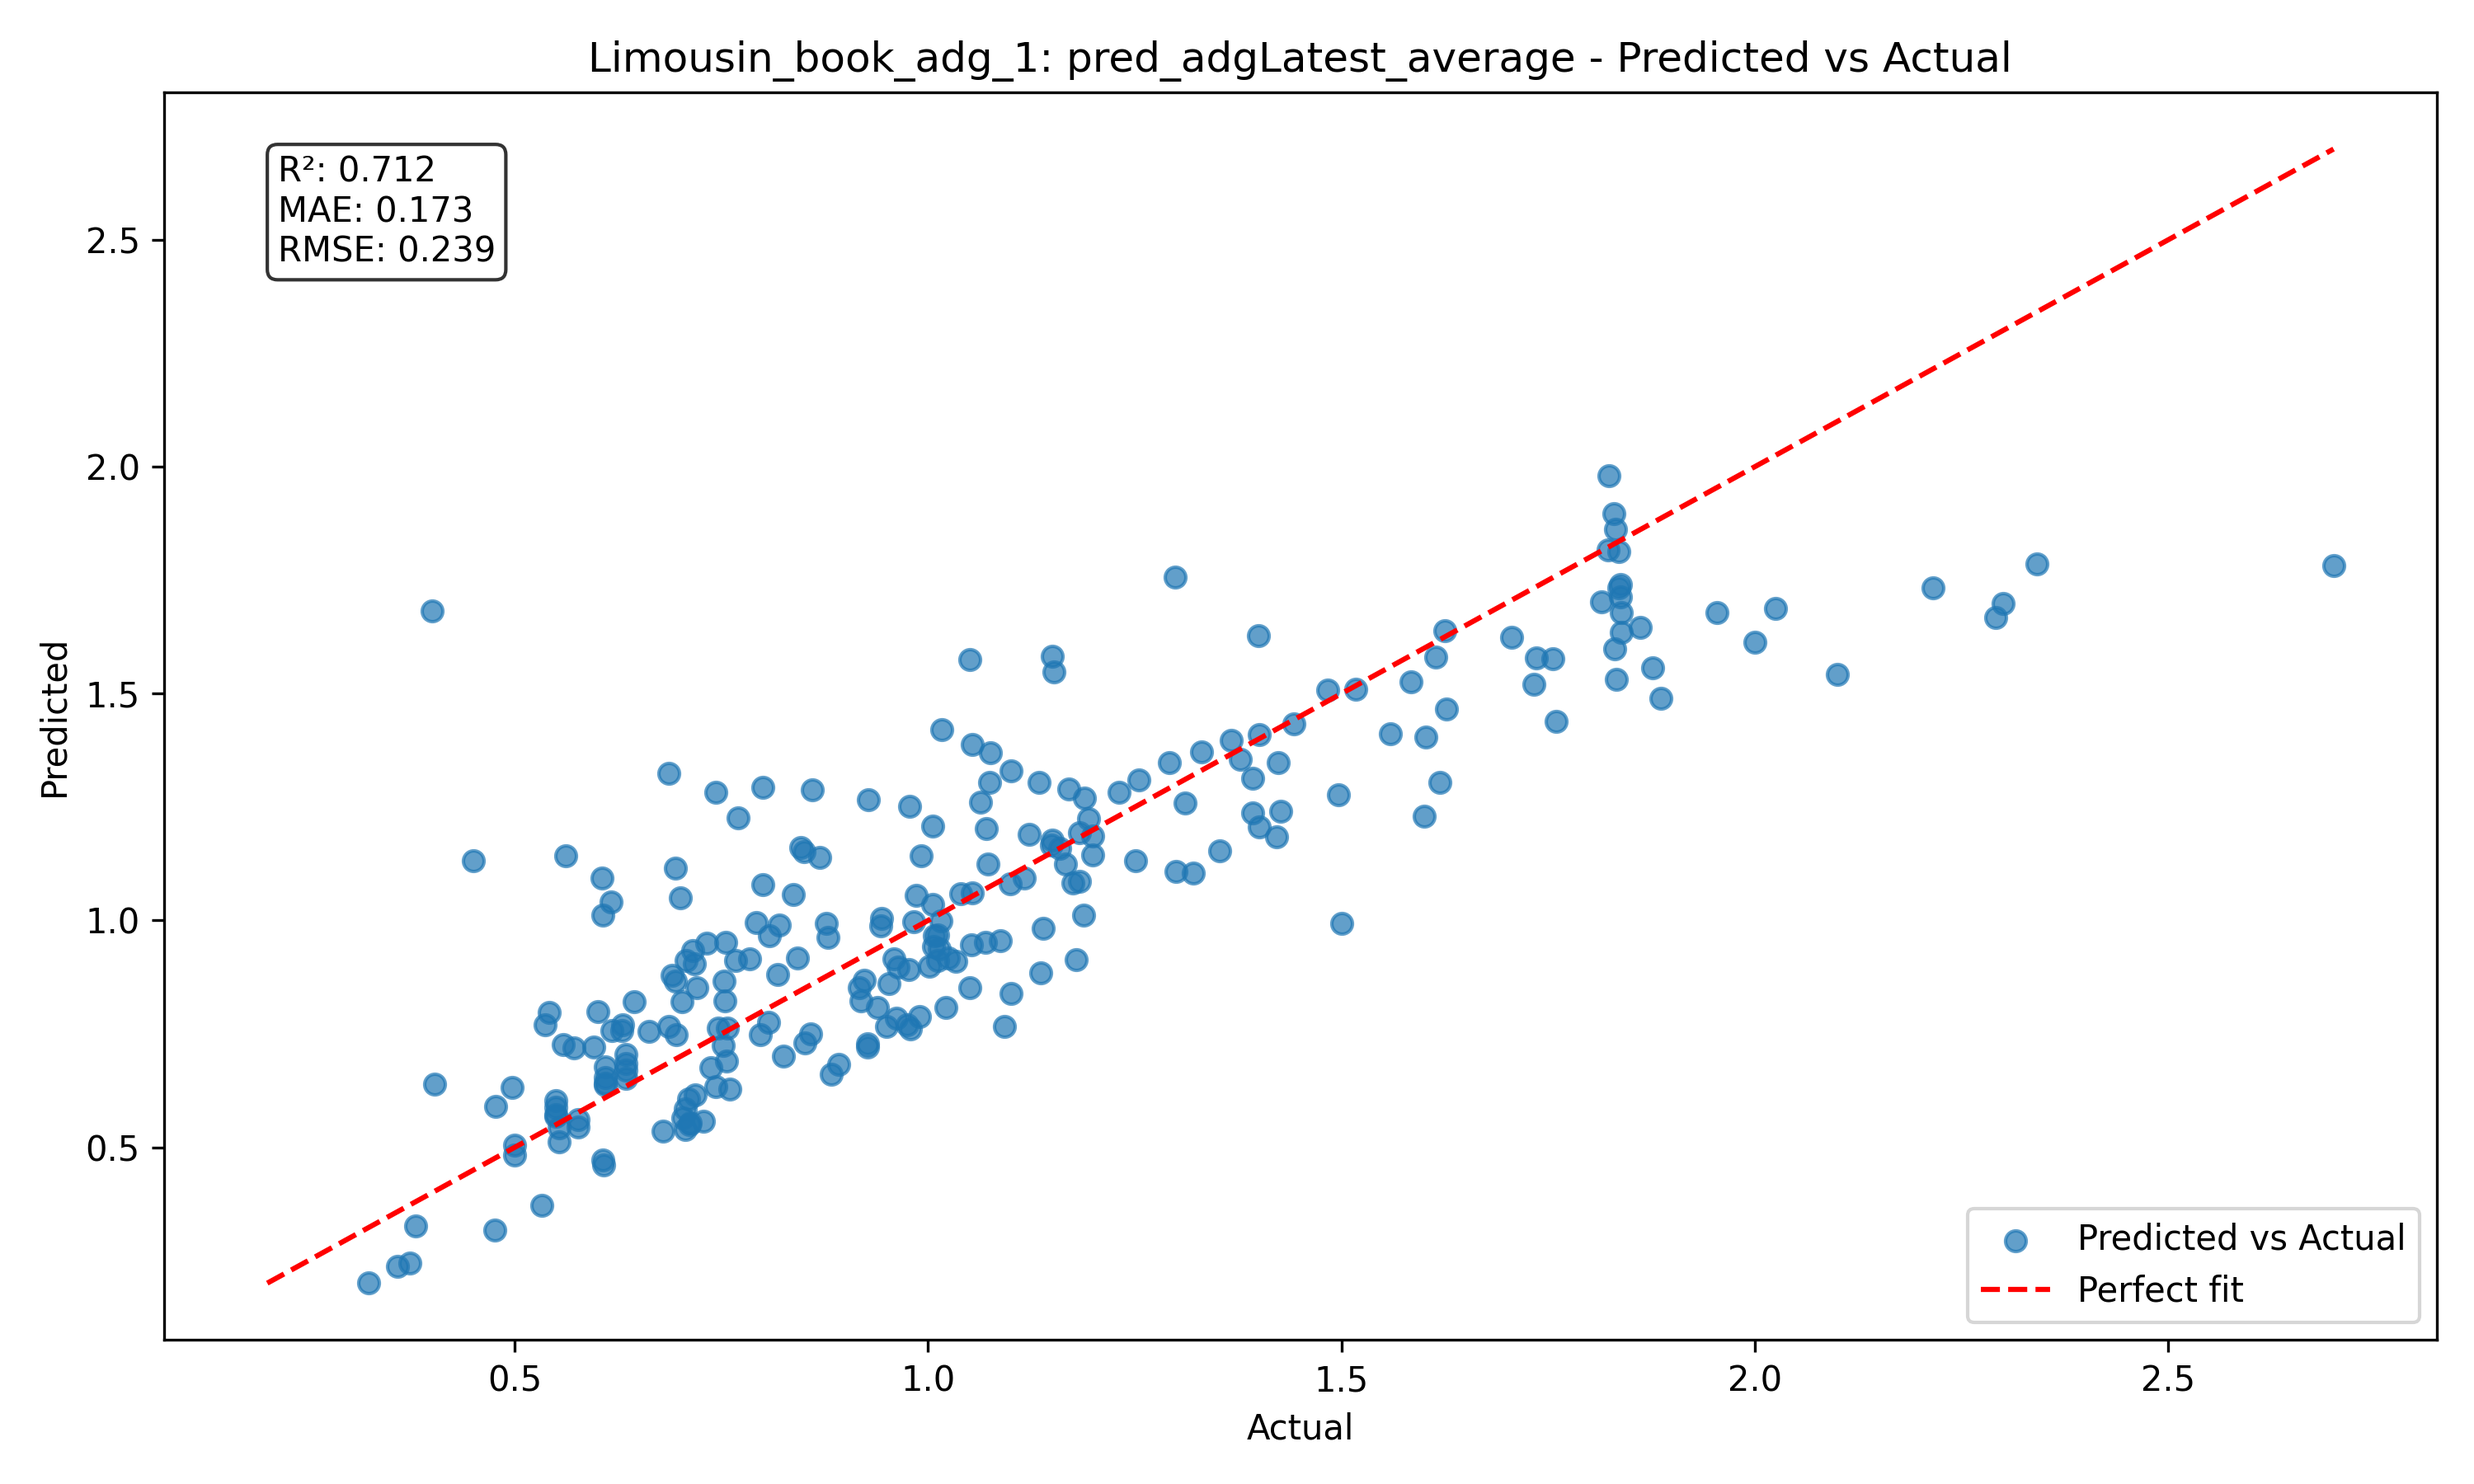
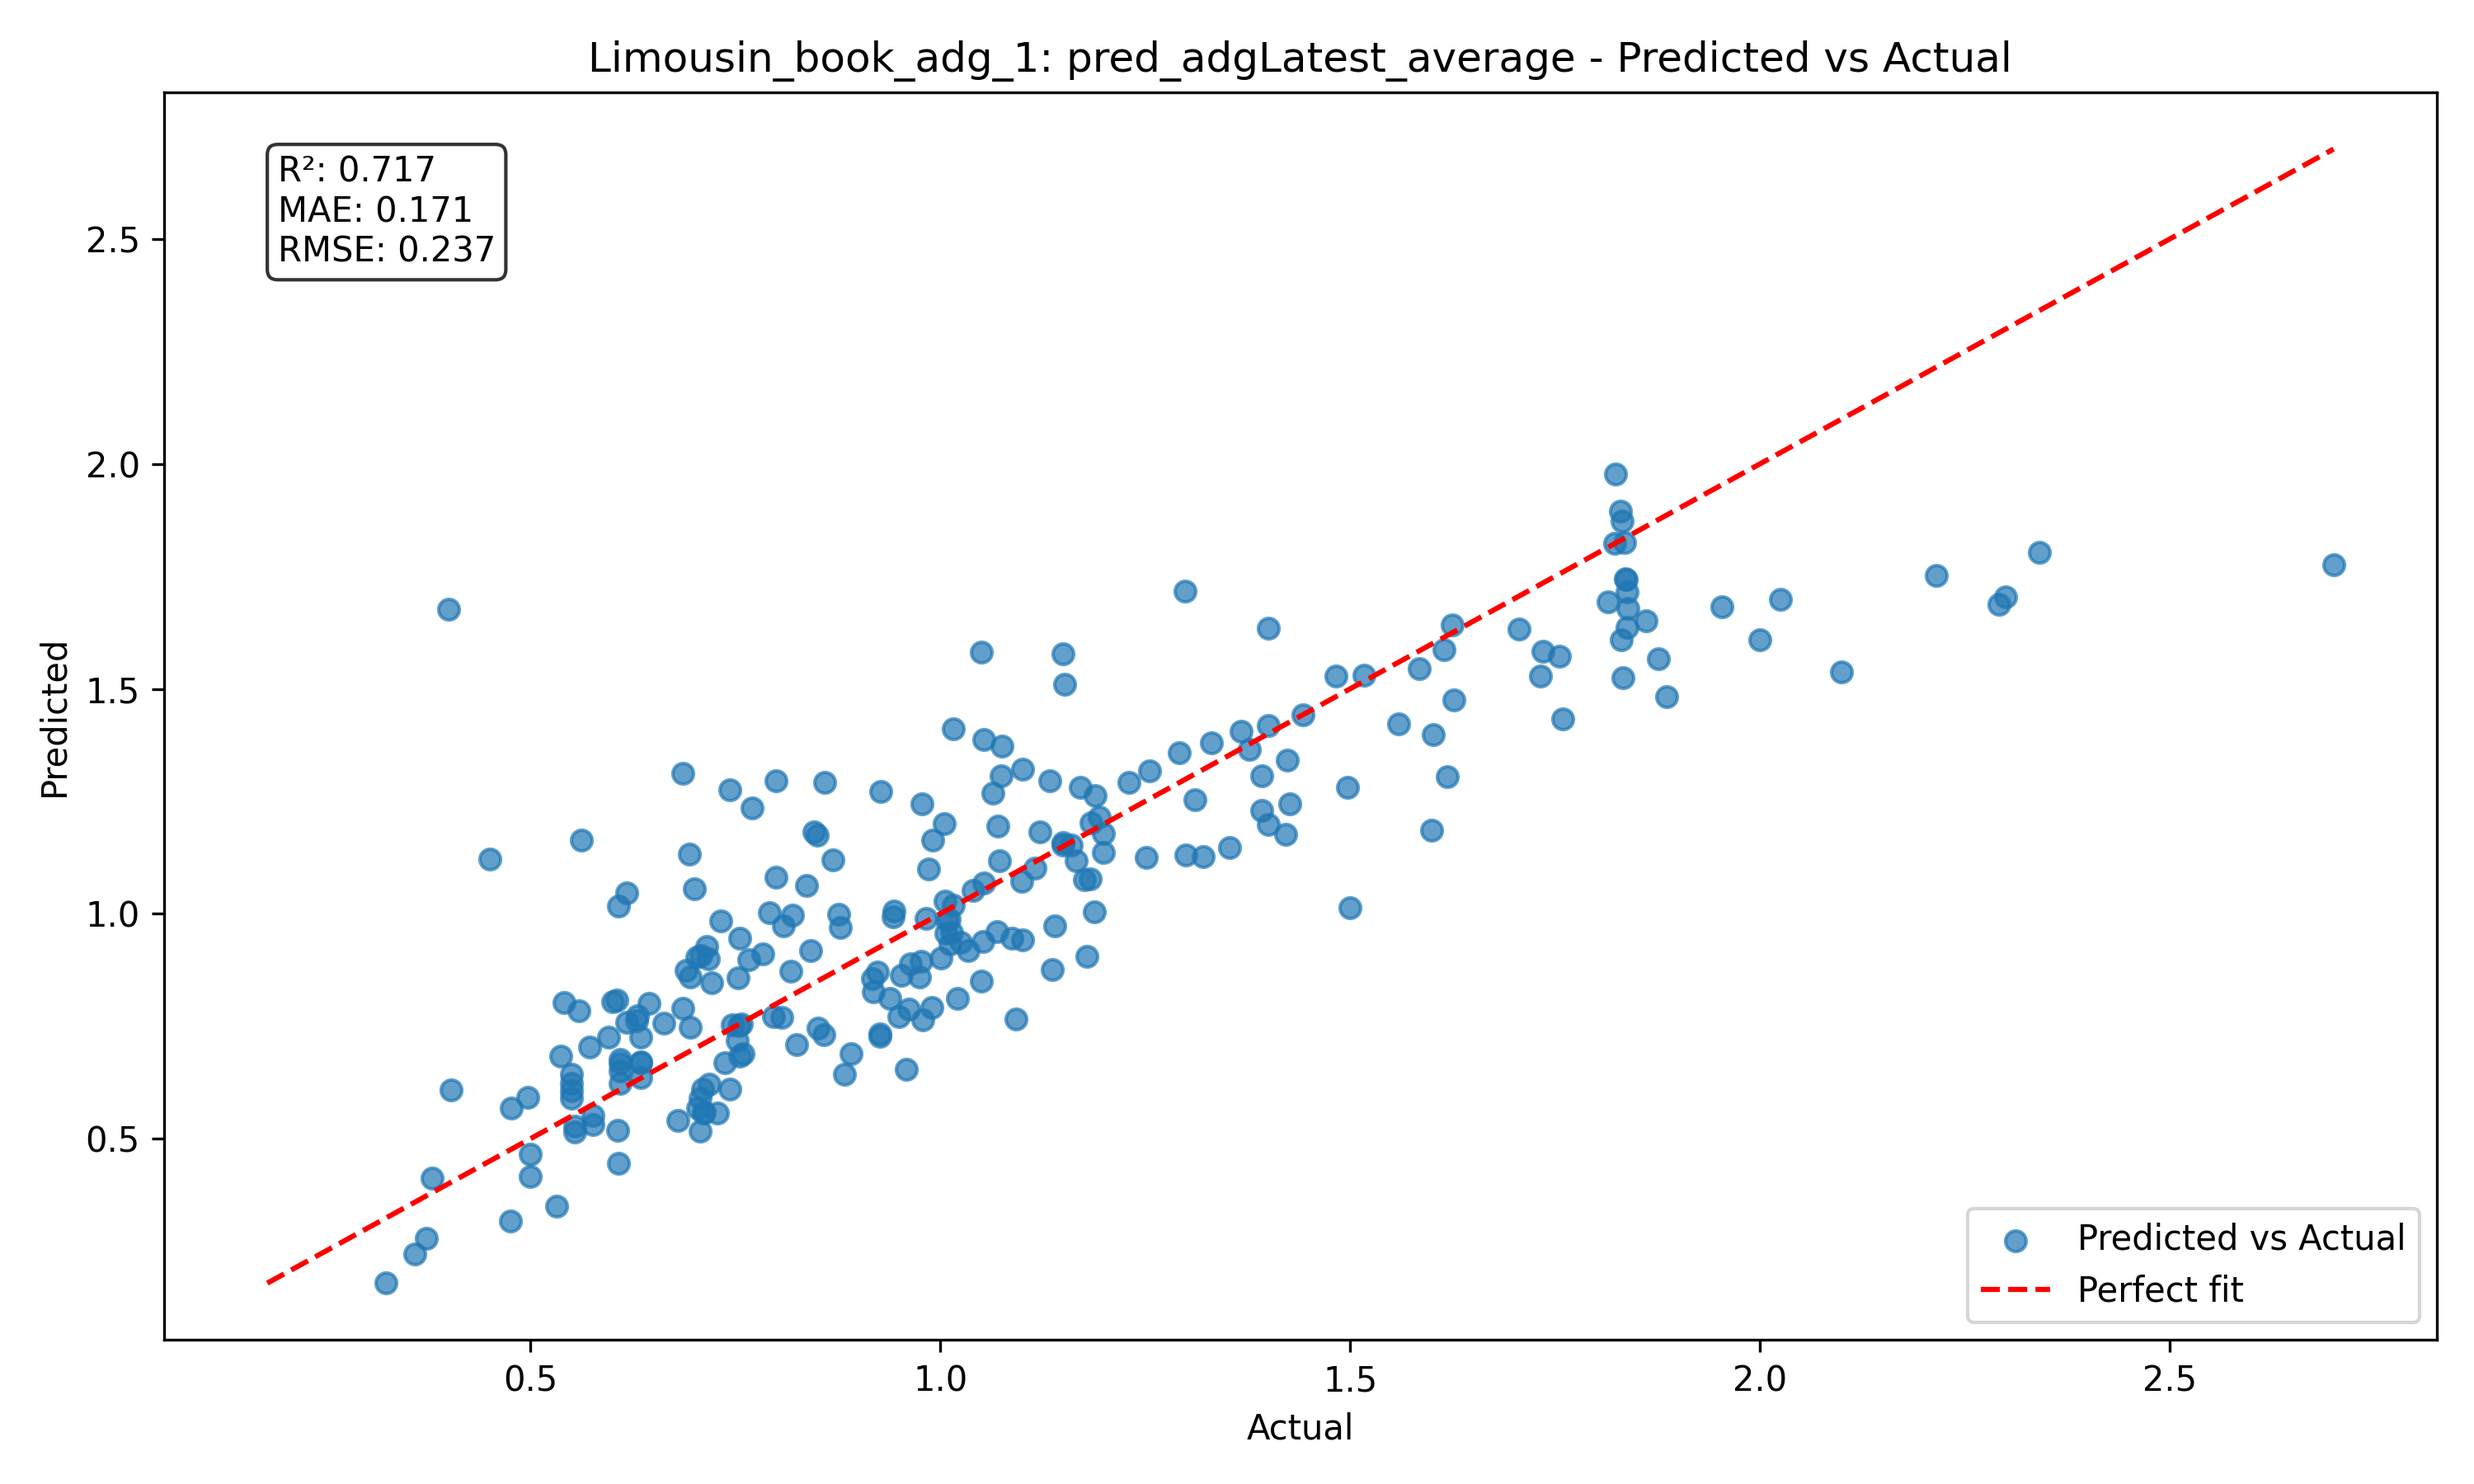
update

diff --git a/data_processor/FeedProcessor.py b/data_processor/FeedProcessor.py
@@ -266,6 +266,7 @@ class FeedProcessor:
             'total_tdn_mw': self.total_tdn_mw,
             'tdn_silage_dt': self.tdn_silage_dt,
             'tdn_rumput_dt': self.tdn_rumput_dt,
+            'silage_x_rumput_tdn': self.tdn_rumput_over_mw_dt*self.tdn_slobber_over_mw_dt,
             'tdn_slobber_dt': self.tdn_slobber_dt,
             'total_tdn_greens_over_mw': self.total_tdn_greens_over_mw,
             'total_tdn_greens_over_mw_dt': self.total_tdn_greens_over_mw_dt,

diff --git a/models/models.py b/models/models.py
@@ -27,7 +27,7 @@ models = {
     'book_adg_1':
     {
         'depended_attr': 'pred_adgLatest_average', 
-        'indpended_attr':   [ 'metabolic_weight', 'tdn_silage_over_mw_dt', 'tdn_rumput_over_mw_dt', 'tdn_slobber_over_mw_dt',  'day_diff']
+        'indpended_attr':   [ 'metabolic_weight', 'tdn_silage_over_mw_dt', 'tdn_rumput_over_mw_dt', 'tdn_slobber_over_mw_dt', 'day_diff']
     },
     'simental_book_adg_1':
     {
